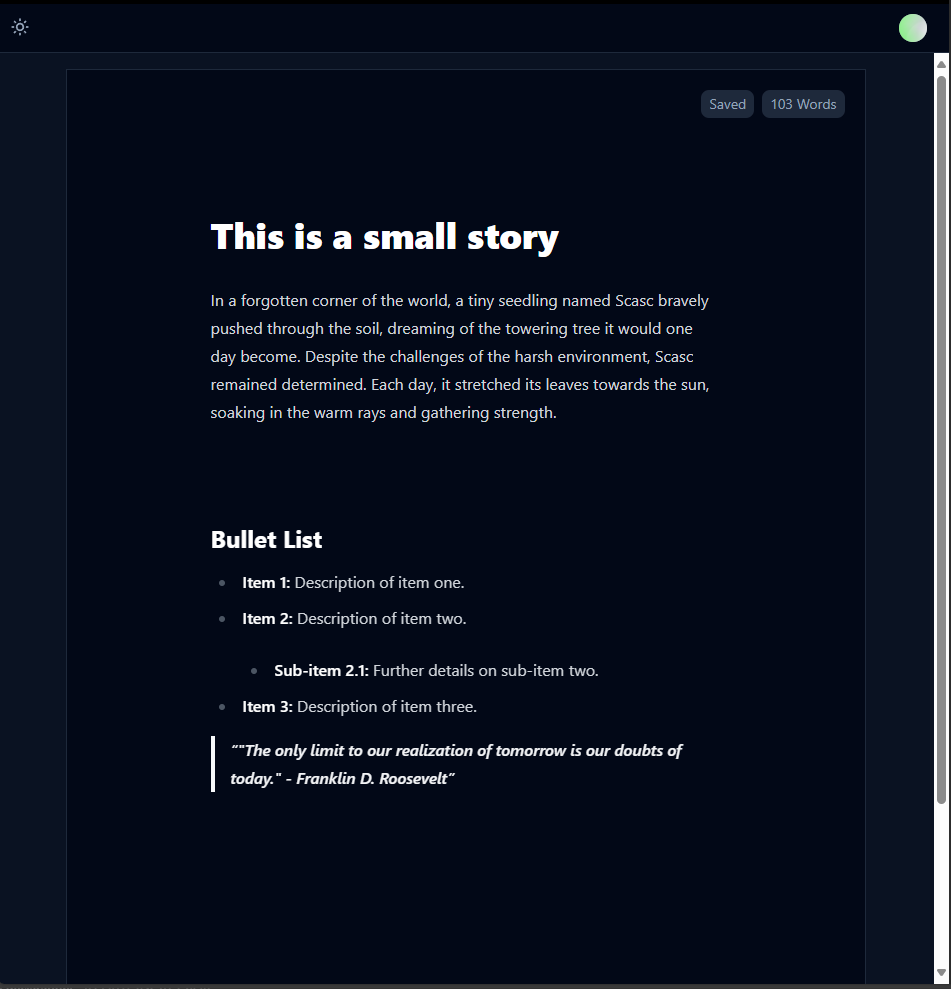
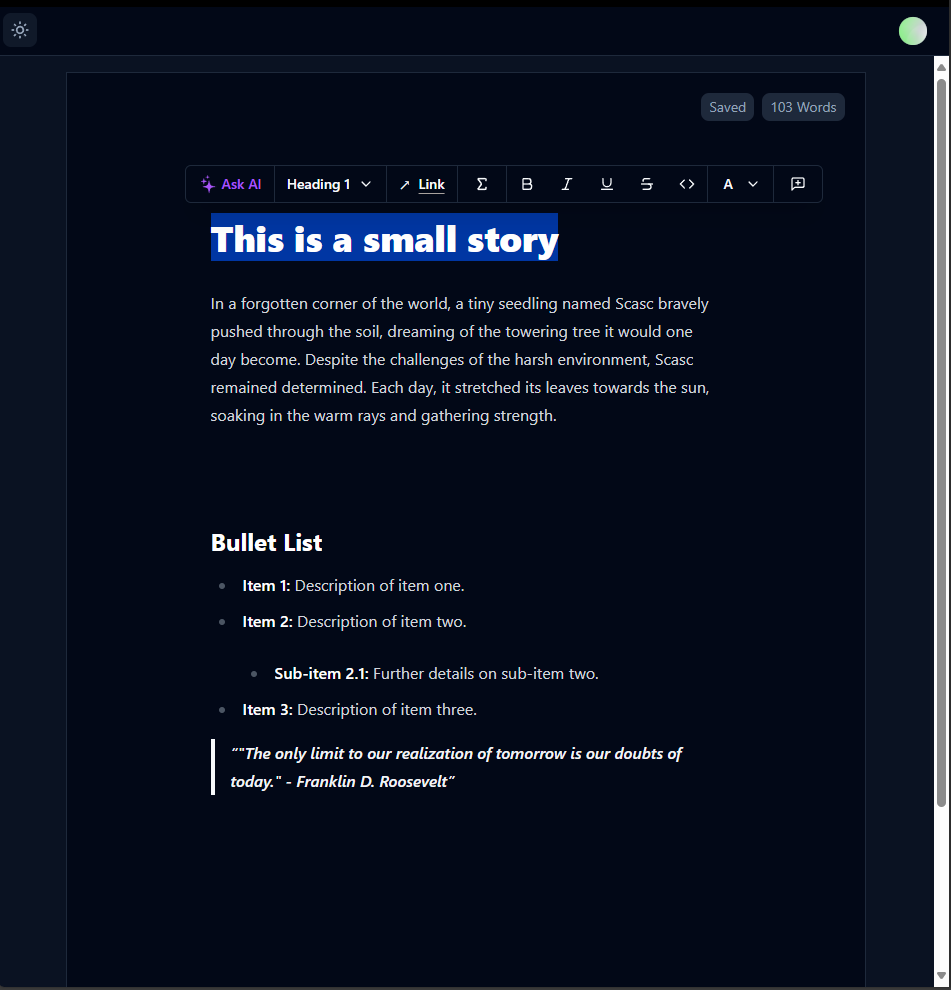
experiment with liveblocks tiptap novel editor

diff --git a/packages/app/src/components/ai-docs-temp/selectors/link-selector.tsx b/packages/app/src/components/ai-docs-temp/selectors/link-selector.tsx
@@ -1,70 +1,101 @@
 "use client";
 
-import { Link, Unlink } from "lucide-react";
-import { Button } from "@/components/ui/button";
-import { Input } from "@/components/ui/input";
-import { Popover, PopoverContent, PopoverTrigger } from "@/components/ui/popover";
+import { Button } from "../../ui/button";
+import { Popover, PopoverContent, PopoverTrigger } from "../../ui/popover";
+import { cn } from "@/lib/utils";
+import { Check, Trash } from "lucide-react";
 import { Editor } from "@tiptap/react";
-import { useState } from "react";
+import { useEffect, useRef } from "react";
 
-interface LinkSelector_Props {
+function getUrlFromString(str: string) {
+	if (str.includes("http")) {
+		return str;
+	}
+	return `https://${str}`;
+}
+
+export function isValidUrl(url: string) {
+	try {
+		new URL(url);
+		return true;
+	} catch (_e) {
+		return false;
+	}
+}
+
+interface LinkSelectorProps {
 	editor: Editor | null;
 	open: boolean;
 	onOpenChange: (open: boolean) => void;
 }
 
-export const LinkSelector = ({ editor, open, onOpenChange }: LinkSelector_Props) => {
-	const [url, set_url] = useState("");
+export const LinkSelector = ({ editor, open, onOpenChange }: LinkSelectorProps) => {
+	const inputRef = useRef<HTMLInputElement>(null);
+
+	// Autofocus on input by default
+	useEffect(() => {
+		inputRef.current?.focus();
+	});
 
 	if (!editor) return null;
 
-	const is_link_active = editor.isActive("link");
-
-	const handle_set_link = () => {
-		if (url) {
-			editor.chain().focus().setLink({ href: url }).run();
-			set_url("");
-			onOpenChange(false);
-		}
-	};
-
-	const handle_unset_link = () => {
-		editor.chain().focus().unsetLink().run();
-		onOpenChange(false);
-	};
-
 	return (
-		<Popover open={open} onOpenChange={onOpenChange}>
+		<Popover modal={true} open={open} onOpenChange={onOpenChange}>
 			<PopoverTrigger asChild>
-				<Button variant="ghost" size="sm" className="flex h-8 items-center gap-2 px-2">
-					<Link className="h-4 w-4" />
-					<span className="text-sm">Link</span>
+				<Button size="sm" variant="ghost" className="gap-2 rounded-none border-none">
+					<p className="text-base">↗</p>
+					<p
+						className={cn("underline decoration-stone-400 underline-offset-4", {
+							"text-blue-500": editor.isActive("link"),
+						})}
+					>
+						Link
+					</p>
 				</Button>
 			</PopoverTrigger>
-			<PopoverContent className="w-80 p-3" align="start">
-				<div className="flex flex-col gap-3">
-					<div className="flex items-center gap-2">
-						<Input
-							placeholder="Enter URL"
-							value={url}
-							onChange={(e) => set_url(e.target.value)}
-							onKeyDown={(e) => {
-								if (e.key === "Enter") {
-									handle_set_link();
+			<PopoverContent align="start" className="w-60 p-0" sideOffset={10}>
+				<form
+					onSubmit={(e) => {
+						const target = e.currentTarget as HTMLFormElement;
+						e.preventDefault();
+						const input = target[0] as HTMLInputElement;
+						const url = getUrlFromString(input.value);
+						if (url) {
+							editor.chain().focus().setLink({ href: url }).run();
+							onOpenChange(false);
+						}
+					}}
+					className="flex p-1"
+				>
+					<input
+						ref={inputRef}
+						type="text"
+						placeholder="Paste a link"
+						className="flex-1 bg-background p-1 text-sm outline-none"
+						defaultValue={editor.getAttributes("link").href || ""}
+					/>
+					{editor.getAttributes("link").href ? (
+						<Button
+							size="icon"
+							variant="outline"
+							type="button"
+							className="flex h-8 items-center rounded-sm p-1 text-red-600 transition-all hover:bg-red-100 dark:hover:bg-red-800"
+							onClick={() => {
+								editor.chain().focus().unsetLink().run();
+								if (inputRef.current) {
+									inputRef.current.value = "";
 								}
+								onOpenChange(false);
 							}}
-						/>
-						<Button size="sm" onClick={handle_set_link} disabled={!url}>
-							Set Link
+						>
+							<Trash className="h-4 w-4" />
 						</Button>
-					</div>
-					{is_link_active && (
-						<Button variant="outline" size="sm" onClick={handle_unset_link} className="flex items-center gap-2">
-							<Unlink className="h-4 w-4" />
-							Remove Link
+					) : (
+						<Button size="icon" className="h-8">
+							<Check className="h-4 w-4" />
 						</Button>
 					)}
-				</div>
+				</form>
 			</PopoverContent>
 		</Popover>
 	);

diff --git a/packages/app/src/components/ai-docs-temp/editor.tsx b/packages/app/src/components/ai-docs-temp/editor.tsx
@@ -29,28 +29,25 @@ import { AiPlaceholder } from "./ai-placeholder";
 import { AI_NAME } from "./constants";
 import { useEffect, useState } from "react";
 import { cn } from "../../lib/utils";
+import { LinkSelector } from "./selectors/link-selector";
 
 export default function TiptapEditor() {
 	const [word_count, set_word_count] = useState<number>(0);
 	const [is_saved, set_is_saved] = useState(true);
+	const [open_link, set_open_link] = useState(false);
 
 	const liveblocks = useLiveblocksExtension({
 		ai: {
 			name: AI_NAME,
-			// resolveContextualPrompt: async ({
-			//   prompt,
-			//   context,
-			//   previous,
-			//   signal,
-			// }) => {
-			//   const response = await fetch("/api/contextual-prompt", {
-			//     method: "POST",
-			//     body: JSON.stringify({ prompt, context, previous }),
-			//     signal,
-			//   });
+			resolveContextualPrompt: async ({ prompt, context, previous, signal }) => {
+				const response = await fetch("/api/ai_docs_temp_contextual_prompt", {
+					method: "POST",
+					body: JSON.stringify({ prompt, context, previous }),
+					signal,
+				});
 
-			//   return response.json();
-			// },
+				return response.json();
+			},
 		},
 	});
 
@@ -133,11 +130,11 @@ export default function TiptapEditor() {
 	return (
 		<div className={cn("TiptapEditor", "relative w-full max-w-screen-lg")}>
 			{/* Status Bar */}
-			<div className={cn("TiptapEditor-status-bar", "absolute right-5 top-5 z-10 mb-5 flex gap-2")}>
-				<div className={cn("TiptapEditor-save-status", "bg-accent text-muted-foreground rounded-lg px-2 py-1 text-sm")}>
+			<div className={cn("TiptapEditor-status-bar", "absolute top-5 right-5 z-10 mb-5 flex gap-2")}>
+				<div className={cn("TiptapEditor-save-status", "rounded-lg bg-accent px-2 py-1 text-sm text-muted-foreground")}>
 					{is_saved ? "Saved" : "Unsaved"}
 				</div>
-				<div className={cn("TiptapEditor-word-count", "bg-accent text-muted-foreground rounded-lg px-2 py-1 text-sm")}>
+				<div className={cn("TiptapEditor-word-count", "rounded-lg bg-accent px-2 py-1 text-sm text-muted-foreground")}>
 					{word_count} Words
 				</div>
 			</div>
@@ -146,7 +143,7 @@ export default function TiptapEditor() {
 			<div
 				className={cn(
 					"TiptapEditor-header",
-					"border-border/80 bg-background flex h-[60px] items-center justify-end border-b px-4",
+					"flex h-[60px] items-center justify-end border-b border-border/80 bg-background px-4",
 				)}
 			>
 				<VersionsDialog editor={editor} />
@@ -154,13 +151,14 @@ export default function TiptapEditor() {
 			</div>
 
 			{/* Official Liveblocks Toolbar */}
-			<div className={cn("TiptapEditor-toolbar-container", "border-border/80 bg-background border-b")}>
+			<div className={cn("TiptapEditor-toolbar-container", "border-b border-border/80 bg-background")}>
 				<Toolbar editor={editor}>
 					<Toolbar.SectionHistory />
 					<Toolbar.Separator />
 					<Toolbar.SectionAi />
 					<Toolbar.Separator />
 					<Toolbar.BlockSelector />
+					<LinkSelector editor={editor} open={open_link} onOpenChange={set_open_link} />
 					<Toolbar.SectionInline />
 					<Toolbar.Separator />
 					<Toolbar.SectionCollaboration />
@@ -179,6 +177,7 @@ export default function TiptapEditor() {
 				<Toolbar.SectionAi />
 				<Toolbar.Separator />
 				<Toolbar.BlockSelector />
+				<LinkSelector editor={editor} open={open_link} onOpenChange={set_open_link} />
 				<Toolbar.SectionInline />
 				<Toolbar.Separator />
 				<Toolbar.SectionCollaboration />

diff --git a/packages/app/src/app.css b/packages/app/src/app.css
@@ -31,7 +31,7 @@
 		position: absolute;
 		user-select: none;
 		pointer-events: none;
-		color: theme("colors.foreground" / 40%);
+		color: hsl(var(--foreground) / 0.4);
 	}
 
 	/* Typography styles */
@@ -68,7 +68,7 @@
 	/* Blockquote styles */
 	.tiptap blockquote {
 		box-sizing: border-box;
-		border-left: 0.25rem solid theme("colors.foreground" / 25%);
+		border-left: 0.25rem solid hsl(var(--foreground) / 0.25);
 		padding-left: 1rem;
 	}
 
@@ -134,6 +134,7 @@
 		line-height: 1.1;
 	}
 
+	/* Scope button styles to exclude Liveblocks components */
 	button {
 		border-radius: 8px;
 		border: 1px solid transparent;
@@ -146,9 +147,11 @@
 		cursor: pointer;
 		transition: border-color 0.25s;
 	}
-	button:hover {
+
+	button {
 		border-color: #646cff;
 	}
+
 	button:focus,
 	button:focus-visible {
 		outline: 4px auto -webkit-focus-ring-color;
